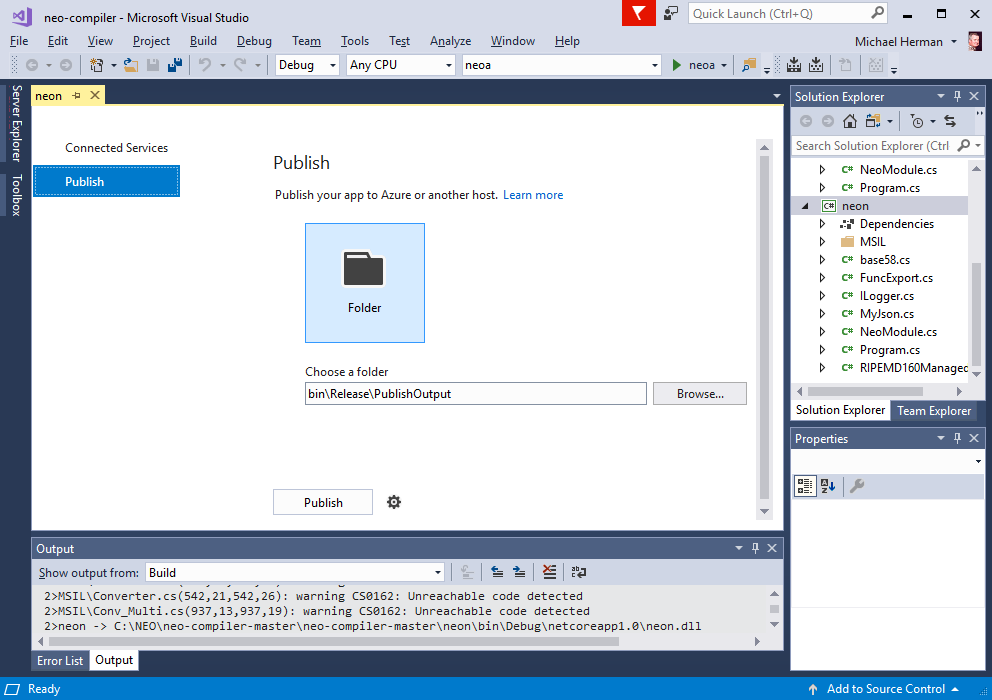
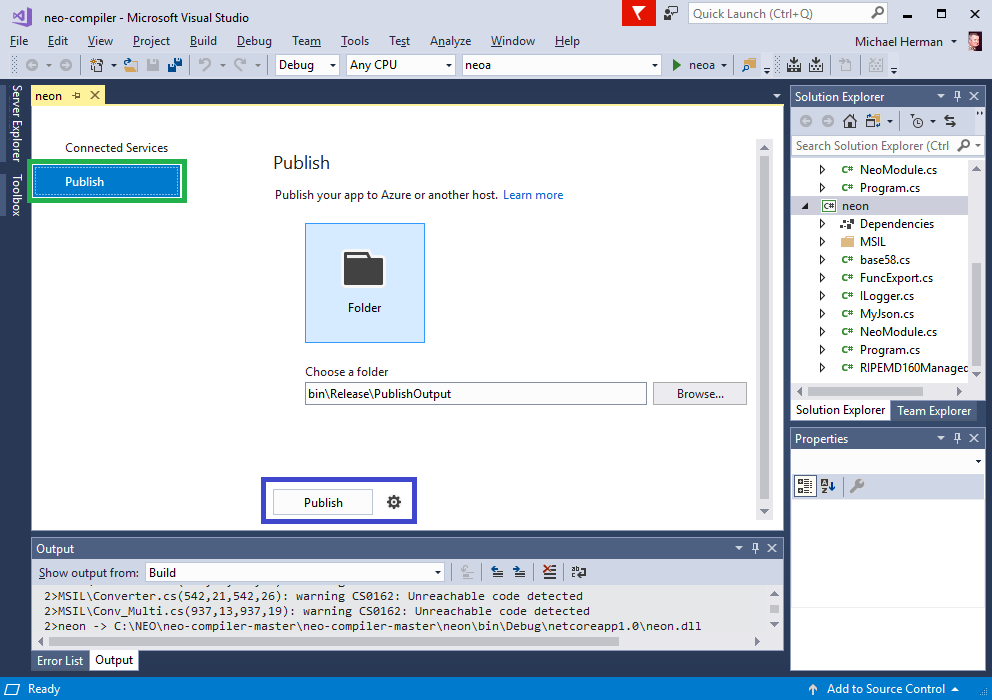
Updates dev tools

Changed region(s): [[0.25, 0.66, 0.4375, 0.75], [0.0312, 0.21, 0.1875, 0.3], [0.0, 0.24, 0.0312, 0.27]]

diff --git a/windocs/quickstart-csharp/05-buildneodevtools.md b/windocs/quickstart-csharp/05-buildneodevtools.md
@@ -26,191 +26,211 @@ The purpose of this activity is to build the NEO developer tools from the source
 
 ### Build the Neon NEO MSIL Transcompiler
 
-1. TODO
+1. Open the neo-compiler project in Visual Studio by double-clicking `neo-compiler.sln` in the `C:\NEO\neo-compiler-master\neo-compiler-master` folder created in Activity 2 - Download and unpack NEO developer tool sources.
 
-    ![XXXX](./images/05-buildneodevtools/NeonCompiler3Build.png)
+    ![Open `neo-compiler.sln` in Visual Studio 2017](./images/05-buildneodevtools/NeonCompiler3Build.png)
 
-    Figure 5.X. XXXX
+    Figure 5.1. Open `neo-compiler.sln` in Visual Studio 2017
 
-2. TODO
+2. Uncheck the message `Ask me for every project in this solution` and click `OK`.
 
-    ![XXXX](./images/05-buildneodevtools/NeonCompiler4Build.png)
+    ![Visual Studio: Uncheck the message `Ask me for every project in this solution` and click `OK`](./images/05-buildneodevtools/NeonCompiler4Build.png)
 
-    Figure 5.X. XXXX
+    Figure 5.2. Visual Studio: Uncheck the message `Ask me for every project in this solution` and click `OK`
 
-3. TODO
+3. Visual Studio will open with the project displayed in the Solution Explorer to the right.
 
-    ![XXXX](./images/05-buildneodevtools/NeonCompiler5Build.png)
+    ![Visual Studio: Solution Explorer](./images/05-buildneodevtools/NeonCompiler5Build.png)
 
-    Figure 5.X. XXXX
+    Figure 5.3. Visual Studio: Solution Explorer
 
-4. TODO
+4. Right-click the solution name `neo-compiler` near the top of the Solution Explorer and select Rebuild Solution. Several things will happen the first time you do this; for example, the referenced Nuget packages will be downloaded and refreshed in addition to the sources being compiled to create the NEO compiler set.
 
-    ![XXXX](./images/05-buildneodevtools/NeonCompiler6Build.png)
+    ![Visual Studio: Rebuild Solution](./images/05-buildneodevtools/NeonCompiler6Build.png)
 
-    Figure 5.X. XXXX
+    Figure 5.4. Visual Studio: Rebuild Solution
 
-5. TODO
+5. Rebuild Solution completes.
 
-    ![XXXX](./images/05-buildneodevtools/NeonCompiler7Build.png)
+    ![Rebuild Solution completes](./images/05-buildneodevtools/NeonCompiler7Build.png)
 
-    Figure 5.X. XXXX
+    Figure 5.5. Rebuild Solution completes
 
-6. TODO
+6. Right-click the project name `neon` in the Solution Explorer and select Publish.
 
-    ![XXXX](./images/05-buildneodevtools/NeonCompiler8Build.png)
+    **NOTE:** This is the single most troublesome set of tasks in the entire Quick Start process.  Follow these manual workarounds carefully.
 
-    Figure 5.X. XXXX
+    ![`neon` Project: Publish...](./images/05-buildneodevtools/NeonCompiler8Build.png)
 
-7. TODO
+    Figure 5.6. `neon` Project: Publish...
 
-    ![XXXX](./images/05-buildneodevtools/NeonCompiler9Build.png)
+7. The following Publish page will appear in Visual Studio. Select `Publish` on the left side (and not Connection Services). Click the `Publish` button to continue (using the default settings).
 
-    Figure 5.X. XXXX
+    ![`neon` Project: Publish to Folder](./images/05-buildneodevtools/NeonCompiler9Build.png)
 
-8. TODO
+    Figure 5.7. `neon` Project: Publish to Folder
 
-    ![XXXX](./images/05-buildneodevtools/NeonCompilerABuild.png)
+8. When you see "Publish failed", this is the problem area. Click `OK` to close this dialog box.
 
-    Figure 5.X. XXXX
+    ![`neon` Project: Published failed](./images/05-buildneodevtools/NeonCompilerABuild.png)
 
-9. TODO
+    Figure 5.8. `neon` Project: Published failed
 
-    ![XXXX](./images/05-buildneodevtools/NeonCompilerBBuild.png)
+9. In the Output pane at the bottom of the screen, change the drop down "Show output from:" from Build to `Build Order`. Note the highlighted error message about the missing neon.dll. It's not missing - it is in a different directory and needs to be manually copied to where Visual Studio expects to find this DLL.
 
-    Figure 5.X. XXXX
+    ![`neon` Project: neon.dll is missing (but not really)](./images/05-buildneodevtools/NeonCompilerBBuild.png)
 
-10. TODO
+    Figure 5.9. `neon` Project: neon.dll is missing (but not really)
 
-    ![XXXX](./images/05-buildneodevtools/NeonCompilerCBuild.png)
+10. Open Windows Explorer and navigate to the folder `C:\NEO\neo-compiler-master\neo-compiler-master\neon\bin\Release\netcoreapp1.0`. We need to copy `neon.dll` from this folder to the folder where Visual Studio expects to find it.
 
-    Figure 5.X. XXXX
+    ![`neon` Project folder:  `C:\NEO\neo-compiler-master\neo-compiler-master\neon\bin\Release\netcoreapp1.0`](./images/05-buildneodevtools/NeonCompilerCBuild.png)
 
-11. TODO
+    Figure 5.10. `neon` Project folder:  `C:\NEO\neo-compiler-master\neo-compiler-master\neon\bin\Release\netcoreapp1.0`
 
-    ![XXXX](./images/05-buildneodevtools/NeonCompilerDBuild.png)
+11. Right-click on `neon.dll` and select `Copy`.
 
-    Figure 5.X. XXXX
+    ![`neon` Project folder: Copy `neon.dll` to the clipboard](./images/05-buildneodevtools/NeonCompilerDBuild.png)
 
-12. TODO
+    Figure 5.11. `neon` Project folder: Copy `neon.dll` to the clipboard
 
-    ![XXXX](./images/05-buildneodevtools/NeonCompilerEBuild.png)
+12. In Windows Explorer, navigate to `C:\NEO\neo-compiler-master\neo-compiler-master\neon\obj\Release\netcoreapp1.0`. Right-click in the file list and select `Paste` to paste a copy of `neon.dll` into this folder.
 
-    Figure 5.X. XXXX
+    **NOTE:** This is the **obj/Release/netcoreapp1.0** folder path.
 
-13. TODO
+    ![`neon` Project folder:  `C:\NEO\neo-compiler-master\neo-compiler-master\neon\obj\Release\netcoreapp1.0`](./images/05-buildneodevtools/NeonCompilerEBuild.png)
 
-    ![XXXX](./images/05-buildneodevtools/NeonCompilerFBuild.png)
+    Figure 5.12. `neon` Project folder:  `C:\NEO\neo-compiler-master\neo-compiler-master\neon\obj\Release\netcoreapp1.0`
 
-    Figure 5.X. XXXX
+13. Back in Visual Studio, click the `Publish` button to publish the `neon` project files a second time (using the default settings).
 
-14. TODO
+    ![`neon` Project: Republish the Project](./images/05-buildneodevtools/NeonCompilerFBuild.png)
 
-    ![XXXX](./images/05-buildneodevtools/NeonCompilerG1Build.png)
+    Figure 5.13. `neon` Project: Republish the Project
 
-    Figure 5.X. XXXX
+14. This time, Publish completes successfully. 
 
-15. TODO
+    ![`neon` Project: Publish Succeeded](./images/05-buildneodevtools/NeonCompilerG1Build.png)
 
-    ![XXXX](./images/05-buildneodevtools/NeonCompilerG2Build.png)
+    Figure 5.14. `neon` Project: Publish Succeeded
 
-    Figure 5.X. XXXX
+15. The `neon` project files have been published to `C:\NEO\neo-compiler-master\neo-compiler-master\neon\bin\Release\PublishOutput`. 
 
-16. TODO
+    **NOTE:** Remember this path because in the next set of tasks, we need to attend to the Windows `Path` search path environment variable.
 
-    ![XXXX](./images/05-buildneodevtools/NeonCompilerHBuild.png)
+    ![`neon` Project: PublishOutout Folder](./images/05-buildneodevtools/NeonCompilerG2Build.png)
 
-    Figure 5.X. XXXX
+    Figure 5.15. `neon` Project: PublishOutout Folder
 
-17. TODO
+At this point, the `neo-compiler` project has been built and published. The remaining tasks are to:
+* Configure Windows `Path` search environment variable, and
+* Test that the `neon` transcompiler works properly with a Visual Studio NEO smart contract project.
 
-    ![XXXX](./images/05-buildneodevtools/NeonCompilerIBuild.png)
+16. To configure the `Path` environment variable, from the Windows start menu, enter "system" and select the System control panel app. In the left pane, click `Advanced system settings` to display the `System Properties` dialog box. 
 
-    Figure 5.X. XXXX
+    ![Control Panel: System Properties](./images/05-buildneodevtools/NeonCompilerHBuild.png)
 
-18. TODO
+    Figure 5.16. Control Panel: System Properties
 
-    ![XXXX](./images/05-buildneodevtools/NeonCompilerJBuild.png)
+17. On the `System Properties` dialog box, click `Environment Variables...` to display the `Environment Variables` dialog box. Note the `Path` environment variable in the System variables section. Select `Path` and clck `Edit...`.
 
-    Figure 5.X. XXXX
+    ![Control Panel: System Properties: Environment Variables](./images/05-buildneodevtools/NeonCompilerIBuild.png)
+
+    Figure 5.17. Control Panel: System Properties: Environment Variables
+
+18. Click `New` to add the PublishOutput path to the current list of folders in the `Path` environment variable. Use `C:\NEO\neo-compiler-master\neo-compiler-master\neon\bin\Release\PublishOutput` for the value of the new path. Click `OK` **twice** to close the 2 Environment Variables dialog boxed and return the the System control panel app.
+
+    ![Control Panel: System Properties: `Path` Environment Variable](./images/05-buildneodevtools/NeonCompilerJBuild.png)
+
+    Figure 5.18. Control Panel: System Properties: `Path` Environment Variable
 
 ### Test the Neon NEO MSIL Transcompiler
 
-19. TODO
+19. We'll go step-by-step.  Firt, open a new Windows Command Prompt. Enter `Path` and press Enter to inspect the current value of the `Path` environment variable. You should be able to find the PublishOutput path in the list (closer to the end of the list but it isn't necessarily the very last element of the list).
 
-    ![XXXX](./images/05-buildneodevtools/NeonCompilerKBuild.png)
+    ![Command Prompt: `Path` Environment Variable](./images/05-buildneodevtools/NeonCompilerKBuild.png)
 
-    Figure 5.X. XXXX
+    Figure 5.19. Command Prompt: `Path` Environment Variable
 
-20. TODO
+20. Open Visual Studio 2017 to create a new NEO smart contract project.
 
-    ![XXXX](./images/05-buildneodevtools/NeonCompilerLTest.png)
+    ![Visual Studio 2017](./images/05-buildneodevtools/NeonCompilerLTest.png)
 
-    Figure 5.X. XXXX
+    Figure 5.20. Visual Studio 2017
 
-21. TODO
+21. Select `File` > `New` > `Project...` to open the New Project dialog box. Select `Visual C#`. Select `NeoContract`. Click `OK` to close this dialog box and create a new NeoContract solution and project in Visual Studio. 
 
-    ![XXXX](./images/05-buildneodevtools/NeonCompilerMTest.png)
+    ![Visual Studio: Create a New NeoContract Project](./images/05-buildneodevtools/NeonCompilerMTest.png)
 
-    Figure 5.X. XXXX
+    Figure 5.21. Visual Studio: Create a New NeoContract Project
 
-22. TODO
+22. Visual Studio may take a few minutes to create the NeoContract project.
 
-    ![XXXX](./images/05-buildneodevtools/NeonCompilerNTest.png)
+    ![Visual Studio: Creating the NeoContract Project](./images/05-buildneodevtools/NeonCompilerNTest.png)
 
-    Figure 5.X. XXXX
+    Figure 5.22. Visual Studio: Creating the NeoContract Project
 
-23. TODO
+23. Right-click on the NeoContract project folder and select Build. Note the highlighted messages in the Build section of the Output panel. These 2 message indicate the Visual Studio was able to create both the NEO virtual machine byte code file as well as the Application Binary Interace (ABI) file (in JSON format).
 
-    ![XXXX](./images/05-buildneodevtools/NeonCompilerOTest.png)
+    **NOTE:** If you don't see these 2 messages, the most likely senarios are:
+      * `noen.dll` wasn't published properly. Go back to Task 6 of this activity.
+      * The `Path` environment variable was not set correctly. Go back to Task 16 of this activity.
+      * You had opened Visual Studio before you set the `Path` environment variable.  Close Visual Studio and then go back to Task 20.
 
-    Figure 5.X. XXXX
+    ![Visual Studio: Building the NeoContract Project](./images/05-buildneodevtools/NeonCompilerOTest.png)
+
+    Figure 5.23. Visual Studio: Building the NeoContract Project
 
 ### Build the Neo-Gui-Developer Node/Wallet
 
-24. TODO
+25. Open the neo-compiler project in Visual Studio by double-clicking `neo-gui.sln` in the `C:\NEO\neo-gui-developer-master\neo-gui-developer-master` folder created in Activity 2 - Download and unpack NEO developer tool sources.
 
-    ![XXXX](./images/05-buildneodevtools/NeoGuiDev1Build.png)
+    ![Open `neo-gui.sln` in Visual Studio 2017](./images/05-buildneodevtools/NeoGuiDev1Build.png)
 
-    Figure 5.X. XXXX
+    Figure 5.24. Open `neo-gui.sln` in Visual Studio 2017
 
-24. TODO
+25. Uncheck the message `Ask me for every project in this solution` and click `OK`.
 
-    ![XXXX](./images/05-buildneodevtools/NeoGuiDev2Build.png)
+    ![Uncheck the message `Ask me for every project in this solution` and click `OK`](./images/05-buildneodevtools/NeoGuiDev2Build.png)
 
-    Figure 5.X. XXXX
+    Figure 5.25. Uncheck the message `Ask me for every project in this solution` and click `OK`
 
-24. TODO
+26. Visual Studio will open with the project displayed in the Solution Explorer to the right.
 
-    ![XXXX](./images/05-buildneodevtools/NeoGuiDev3Build.png)
+    ![Visual Studio: Solution Explorer](./images/05-buildneodevtools/NeoGuiDev3Build.png)
 
-    Figure 5.X. XXXX
+    Figure 5.26. XXVisual Studio: Solution ExplorerXX
 
-24. TODO
+27. (OPTIONAL) If you are comfortable making code changes to a Windows C# .NET Webforms application, navigate to the `Mainform.cs` source file in the `UI` folder. Right-click this file and select `View Code`. Scroll down to the MainForm() constructor method. At end of the constructor, add the highlighted single line of code:
+    ```csharp
+    this.Text - "neo-gui-dev - " + Settings.Default.DataDirectoryPath; 
+    ```
+    Type `ctrl+s` to save your changes to this source file. 
+    This single line of code with display the blockchain database folder name in the app's title bar next to app's name. This is a useful practice when you're using multiple sets of JSON configuration files (more about these later).
 
-    ![XXXX](./images/05-buildneodevtools/NeoGuiDev4Build.png)
+    ![Optional source changes](./images/05-buildneodevtools/NeoGuiDev4Build.png)
 
-    Figure 5.X. XXXX
+    Figure 5.27. Optional source changes
 
 ### Test the Neo-Gui-Developer Node/Wallet
 
-25. TODO
+28. Still in Visual Studio with the `neo-gui.sln` solution open (developer version), click `Start` to run `neo-gui` with the Visual Studio debugger.
 
-    ![XXXX](./images/05-buildneodevtools/NeoGuiDev5Test.png)
+    ![`neo-gui`: Start with Visual Studio Debugger](./images/05-buildneodevtools/NeoGuiDev5Test.png)
 
-    Figure 5.X. XXXX
+    Figure 5.28. `neo-gui`: Start with Visual Studio Debugger
 
-26. TODO
+29. If this is the very first time you have worked with a NEO project, you may be prompted to install a root certificate into the Windows certificate store. Click `Yes`.
 
-    ![XXXX](./images/05-buildneodevtools/NeoGuiDev6Test.png)
+    ![Accept NEO Root Certificate](./images/05-buildneodevtools/NeoGuiDev6Test.png)
 
-    Figure 5.X. XXXX
+    Figure 5.29. Accept NEO Root Certificate
 
-27. TODO
+30. The `neo-gui` (developer version) app should open and begin syncing with the NEO testnet network. You should see the block counts in the bottom-right corner increase over time as well as the the green progress bar begin to animate. Click Wallet > Exit to close the Neo-Gui-Developer Node/Wallet app.
 
-    ![XXXX](./images/05-buildneodevtools/NeoGuiDev7Test.png)
+    ![`neo-gui` (Developer Version) App](./images/05-buildneodevtools/NeoGuiDev7Test.png)
 
-    Figure 5.X. XXXX
+    Figure 5.30. `neo-gui` (Developer Version) App
 
 
 The tasks for this activity are complete. Proceed to [Activity 6 - Download, install, and test Docker platform](./06-installdockerplatform.md).

diff --git a/windocs/quickstart-csharp/12-docstatus.md b/windocs/quickstart-csharp/12-docstatus.md
@@ -31,7 +31,7 @@ Activity | Description | Complete?  | Numbering? | Reviewed? | Tested?
 2 | **[Activity 2 - Download and unpack NEO developer tool sources](./02-downloadneodevtoolsrc.md)** | 2018/2/10 | ____________ | ____________ | ____________
 3 | **[Activity 3 - Coffee Time: Wait for previous activities to complete](./03-coffeetime-waitforprevactivities.md)** | 2018/2/10 | 2018/2/10 | ____________ | ____________
 4 | **[Activity 4 - Install NeoContractPlugin Visual Studio extension](./04-installvsneocontractplugin.md)** | 2018/2/10 | ____________ | ____________ | ____________
-5 | **[Activity 5 - Build NEO developer tools](./05-buildneodevtools.md)** | ____________ | ____________ | ____________ | ____________
+5 | **[Activity 5 - Build NEO developer tools](./05-buildneodevtools.md)** | 2018/2/10 | ____________ | ____________ | ____________
 6 | **[Activity 6 - Download, install, and test Docker platform](./06-installdockerplatform.md)** | 2018/2/10 | ____________ | ____________ | ____________
 7 | **[Activity 7 - Download, install and test NEO privatenet Docker container](./07-installneoprivatenetcontainer.md)** | ____________ | ____________ | ____________ | ____________
 8 | **[Activity 8 - Create and compile HelloWorld smart contract sample](./08-createcompilesmartcontract.md)** | ____________ | ____________ | ____________ | ____________

diff --git a/windocs/quickstart-csharp/00-prerequisites.md b/windocs/quickstart-csharp/00-prerequisites.md
@@ -105,7 +105,7 @@ This folder will be used for all of your NEO development work.  It is the folder
 
     Figure 0.8. Windows Features: Restarting your computer
 
-7. To verify the Hyper-V service is running, click the Windows start menu and enter `services.msc`. You should see numerous Hyper-V services listed in the Services control panel.
+7. To verify the Hyper-V service is running, click the Windows start menu and enter "services.msc". You should see numerous Hyper-V services listed in the Services control panel.
 
     ![Services Control Panel: Hyper-V Services](./images/00-prerequisites/Features-HV3.png)
 
